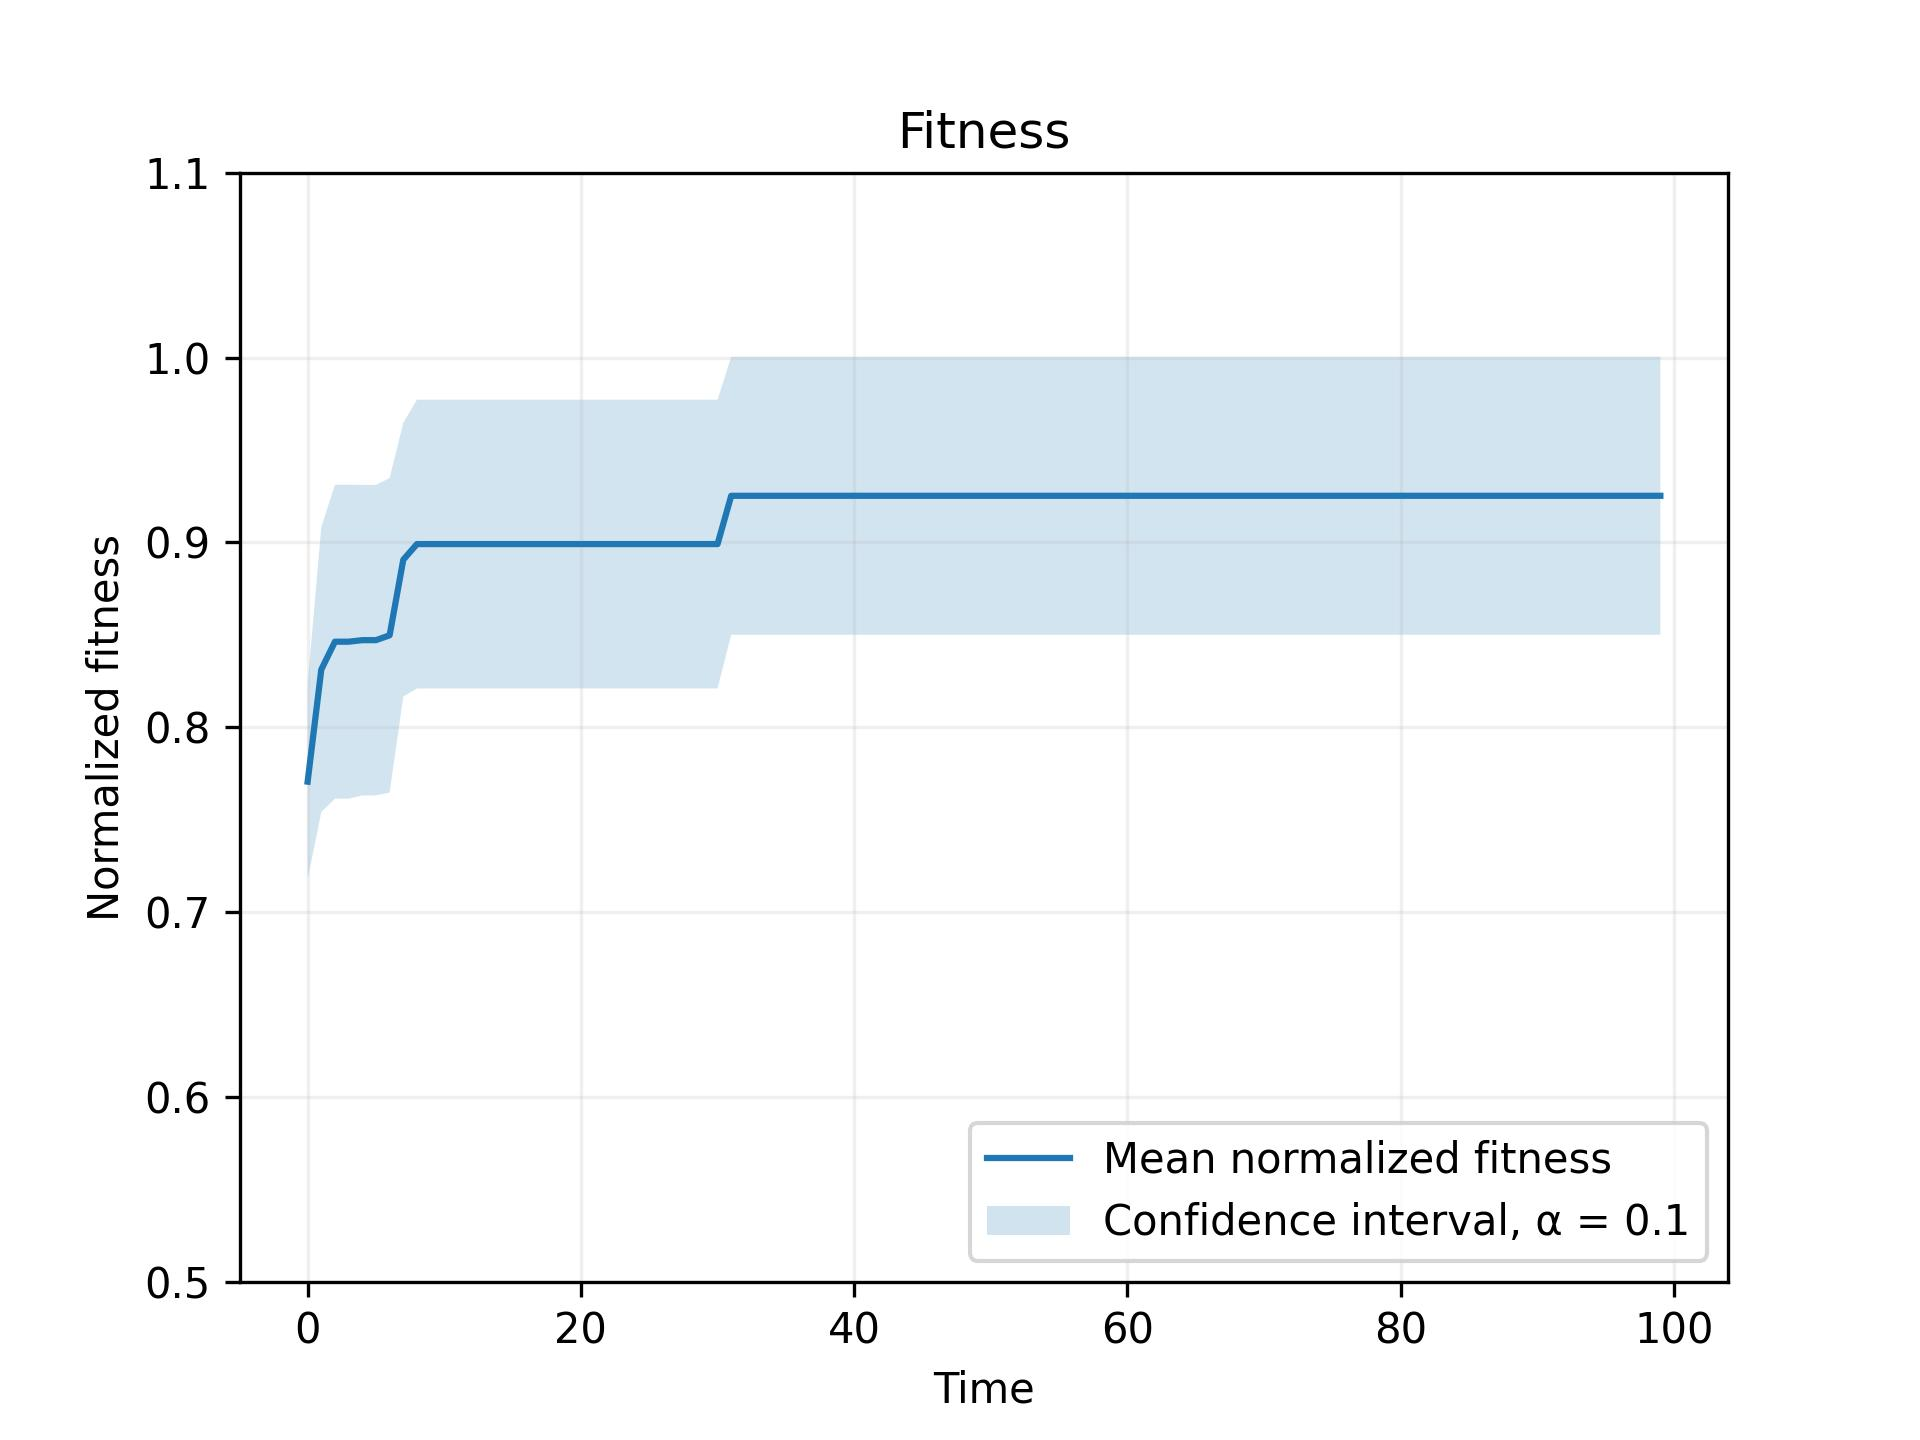
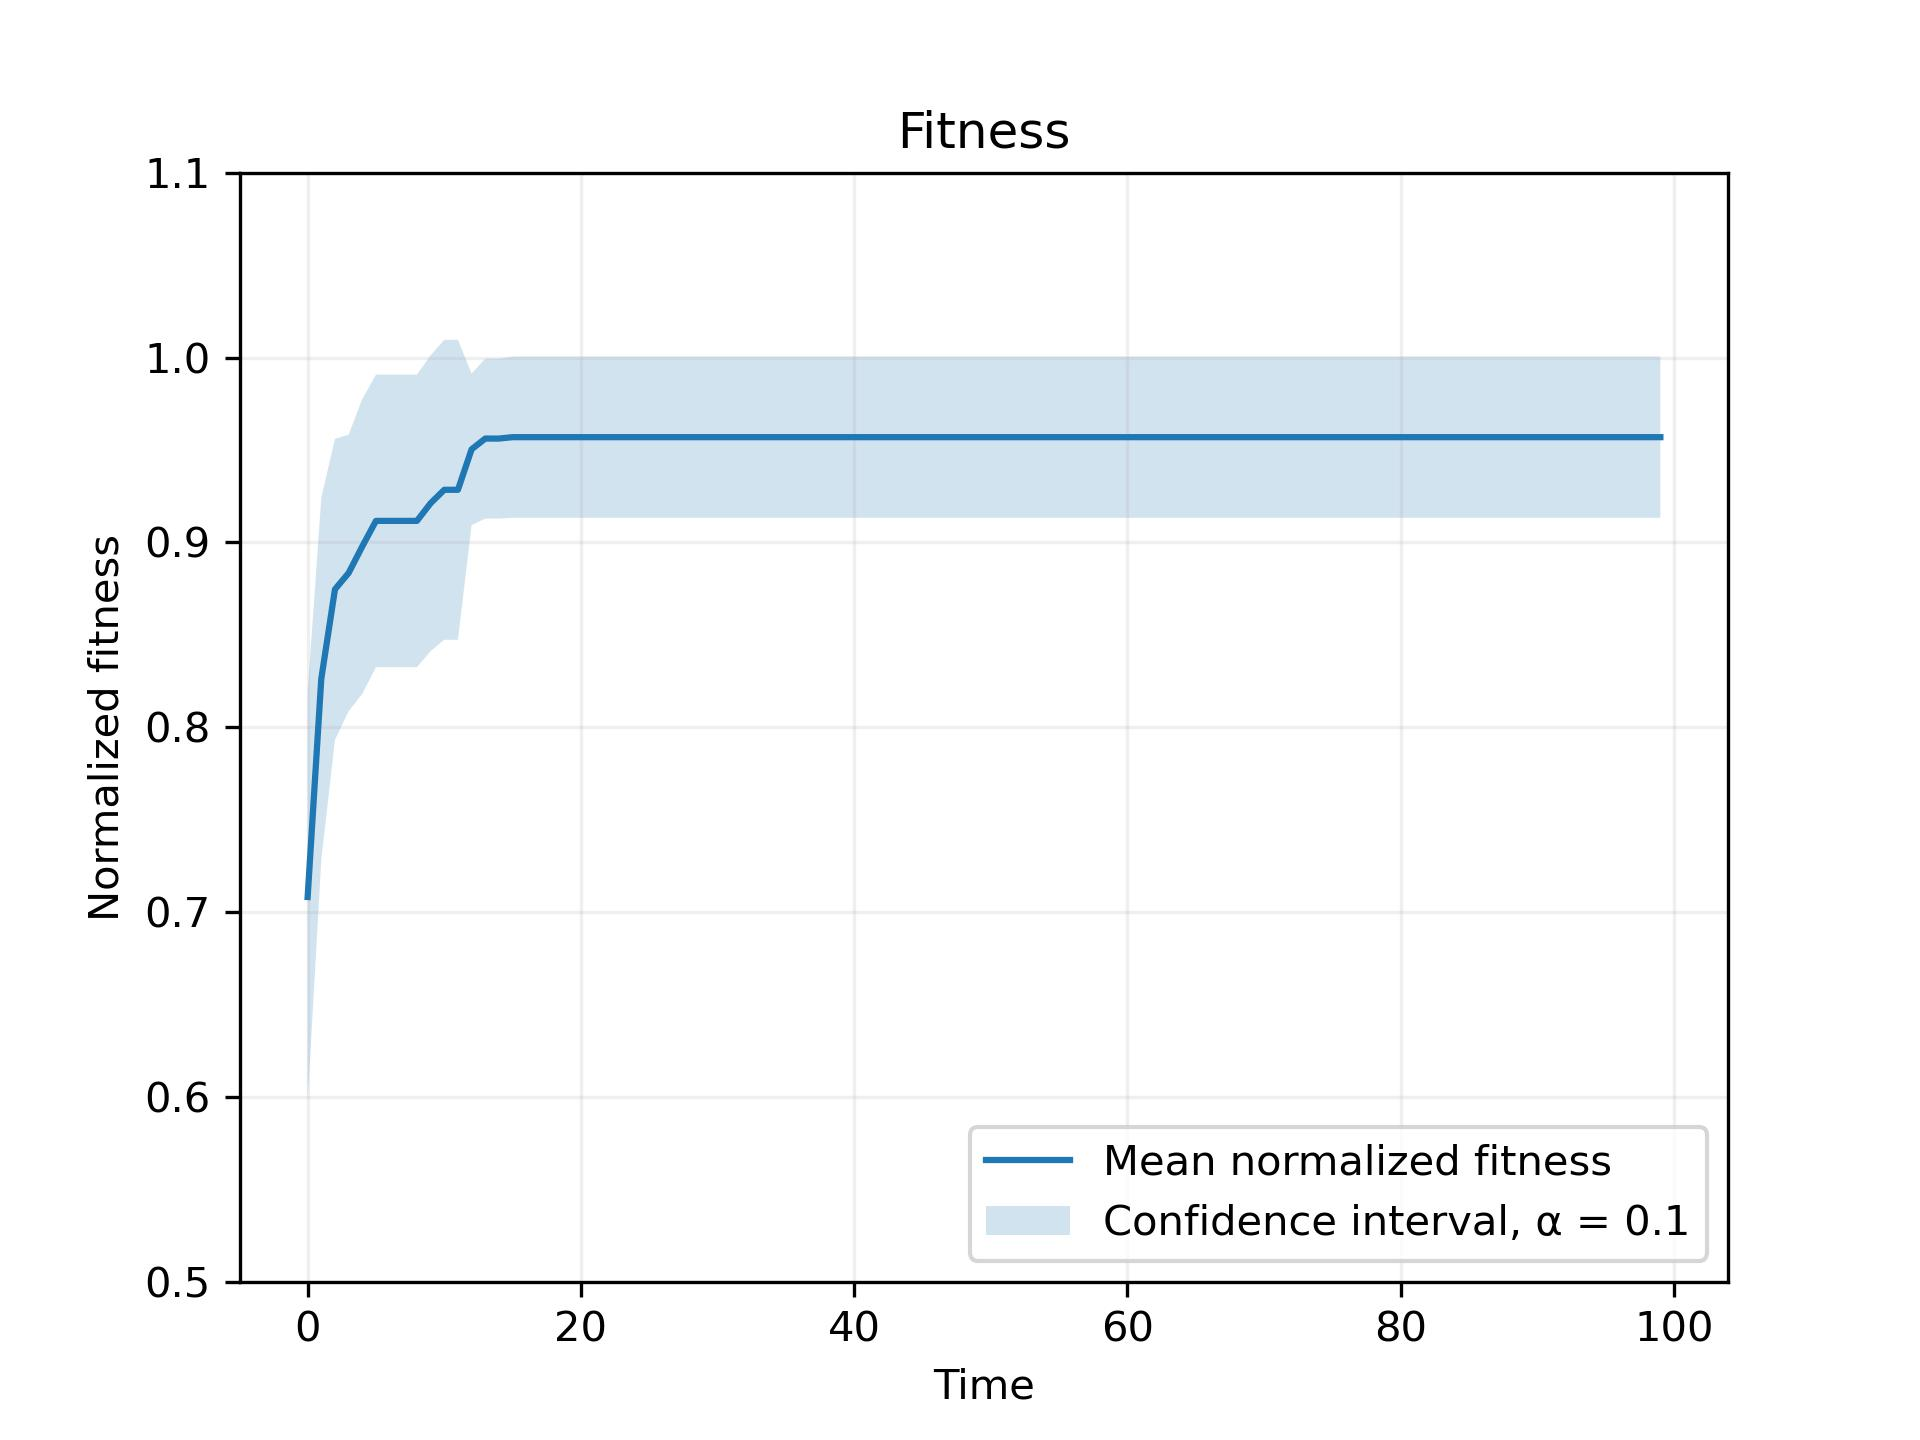
update

diff --git a/project.py b/project.py
@@ -190,14 +190,14 @@ def compute_statistics(fitness: np.ndarray, confidence):
     for i in range(fitness.shape[1]):
         if fitness.shape[0] <= 30:
             tmp = st.t.interval(
-                confidence=confidence,
+                alpha=confidence,
                 df=len(fitness[:, i]) - 1,
                 loc=np.mean(fitness[:, i]),
                 scale=st.sem(fitness[:, i]),
             )
         else:
             tmp = st.norm.interval(
-                confidence=confidence,
+                alpha=confidence,
                 loc=np.mean(fitness[:, i]),
                 scale=st.sem(fitness[:, i]),
             )

diff --git a/readme.md b/readme.md
@@ -40,7 +40,9 @@ moves on the landscape.
 
 For explanations on how to run the model and the parameters see [here](#run): The pattern of dependency can either be selected from a pre-defined dependency matrix (`main`, `block`, `ring`) or randomly 
 generated using parameters `n` and `k`. The evolutionary process is simulated `repeat` times for `period` time steps.  
-There is uncertainty in the evolutionary process, meaning that the agent might make a normally distributed error with mean `mean` and standard deviation `std` when estimating the fitness during the process of evolution. 
+There is uncertainty in the evolutionary process, meaning that the agent might make a normally distributed error with mean `mean` and standard deviation `std` when estimating the fitness during the process of evolution. The model stores and returns simulated data, 
+statistics, and a plot containing the mean fitness and confidence intervals with confidence level `confidence`. The computation of confidence intervals is contingent on the number of repetitions (i.e., observations). For less than 30 observations per timee step, the computation of the confidence intervals
+relies on the t-Distributions, and on the Normal Distribution otherwise. 
 
 The model stores the following files:
 
